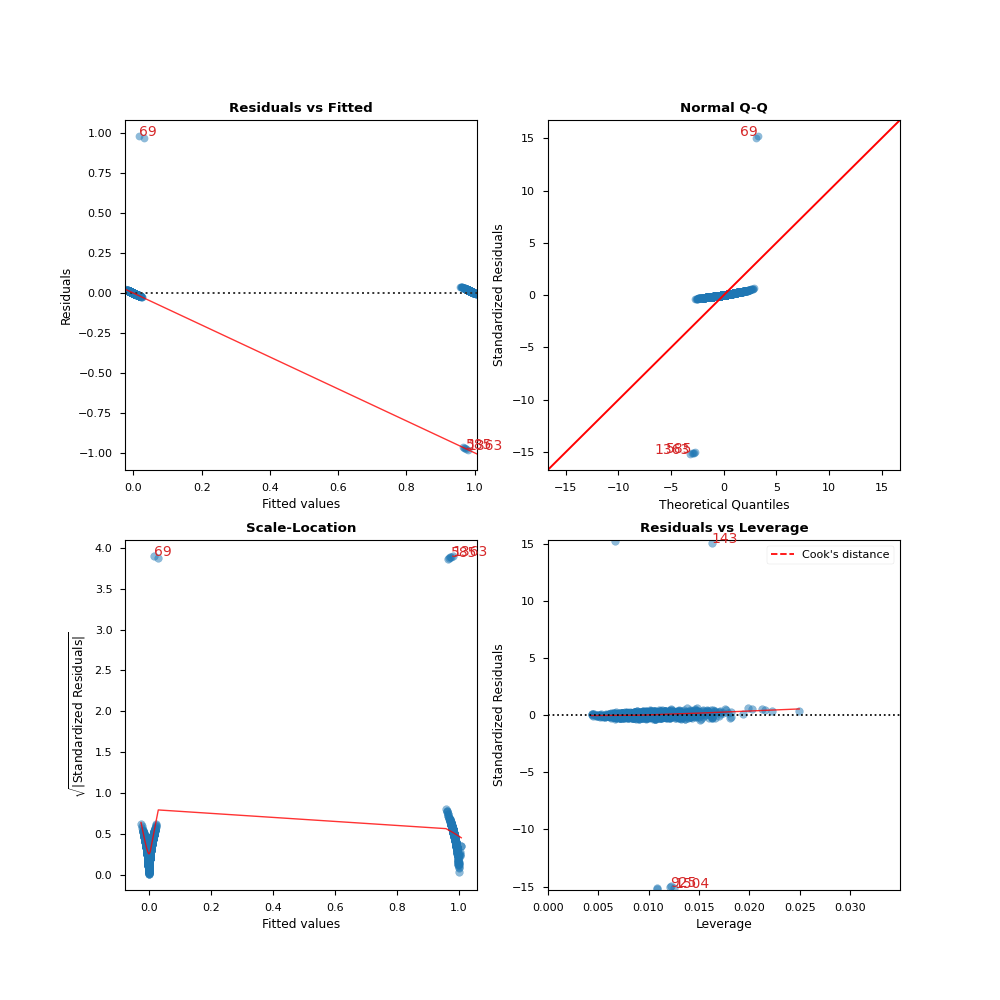
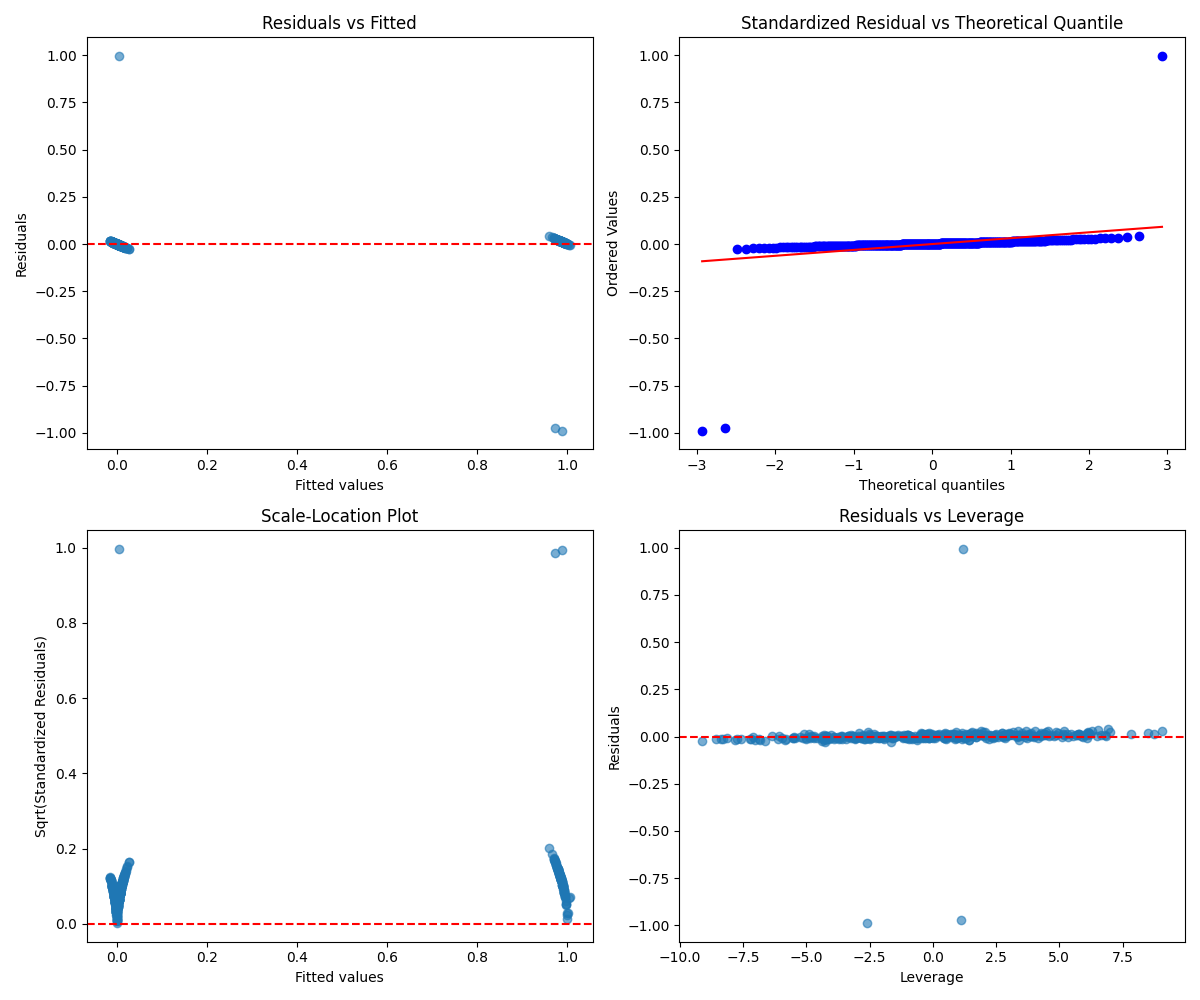
changes in diagnostic plots

diff --git a/code/olsRequests/create_olsSolution.py b/code/olsRequests/create_olsSolution.py
@@ -14,6 +14,7 @@ import statsmodels.api as sm
 import matplotlib.pyplot as plt
 from sklearn.metrics import mean_squared_error, r2_score
 from UE_04_LinearRegDiagnostic import LinearRegDiagnostic
+import scipy.stats as stats
 
 def load_and_preprocess_data(train_file, test_file, target_column):
     """
@@ -63,26 +64,7 @@ def diagnostic_plots_ols(model, path):
     """
     Generate and save diagnostic plots (Residuals and QQ Plot).
     """
-    # residuals = model.resid
-
-    # plt.figure(figsize=(12, 5))
-
-    # # Residuals Plot
-    # plt.subplot(1, 2, 1)
-    # plt.scatter(model.fittedvalues, residuals, alpha=0.5)
-    # plt.axhline(y=0, color='r', linestyle='--')
-    # plt.xlabel('Fitted Values')
-    # plt.ylabel('Residuals')
-    # plt.title('Residuals vs Fitted')
-
-    # # QQ Plot
-    # plt.subplot(1, 2, 2)
-    # sm.qqplot(residuals, line='45', fit=True)
-    # plt.title('QQ Plot of Residuals')
-
-    # plt.savefig(os.path.join(save_path, 'diagnostic_plots_ols.png'))
-    # plt.close()
-    
+   
     # Create diagnostic plots
     diagnostic = LinearRegDiagnostic(model)
     diagnostic(plot_context='seaborn-v0_8-paper')
@@ -110,7 +92,46 @@ def scatter_plot_ols(y_test, test_predictions, path):
     plt.savefig(os.path.join(path, 'scatter_plot_ols.png'))
     plt.close()
 
-
+def save_diagnostic_plots(model, X_test, y_test, save_path):
+    X = sm.add_constant(X_test)
+    predictions = model.predict(X)
+    residuals = y_test - predictions
+    
+    plt.figure(figsize=(12, 10))
+    
+    # Residuals vs Fitted
+    plt.subplot(2, 2, 1)
+    plt.scatter(predictions, residuals, alpha=0.6)
+    plt.axhline(y=0, color='r', linestyle='--')
+    plt.xlabel('Fitted values')
+    plt.ylabel('Residuals')
+    plt.title('Residuals vs Fitted')
+    
+    # Q-Q Plot
+    plt.subplot(2, 2, 2)
+    stats.probplot(residuals, dist="norm", plot=plt)
+    plt.title('Standardized Residual vs Theoretical Quantile')
+    
+    # Scale-Location Plot
+    plt.subplot(2, 2, 3)
+    plt.scatter(predictions, np.sqrt(np.abs(residuals)), alpha=0.6)
+    plt.axhline(y=0, color='r', linestyle='--')
+    plt.xlabel('Fitted values')
+    plt.ylabel('Sqrt(Standardized Residuals)')
+    plt.title('Scale-Location Plot')
+    
+    # Residuals vs Leverage
+    plt.subplot(2, 2, 4)
+    leverage = (X_test - X_test.mean()) / X_test.std()
+    plt.scatter(leverage.sum(axis=1), residuals, alpha=0.6)
+    plt.axhline(y=0, color='r', linestyle='--')
+    plt.xlabel('Leverage')
+    plt.ylabel('Residuals')
+    plt.title('Residuals vs Leverage')
+    
+    plt.tight_layout()
+    plt.savefig(os.path.join(save_path, 'diagnostic_plots_ols.png'))
+    plt.close()
 
 
 def main():
@@ -141,8 +162,9 @@ def main():
         f.write(f"Validation Data R²: {test_r2:.4f}\n")
 
     # Generate and Save Diagnostic and Scatter Plots
-    diagnostic_plots_ols(ols_model, output_dir)
+    # diagnostic_plots_ols(ols_model, output_dir)
     scatter_plot_ols(y_test, test_predictions, output_dir)
+    save_diagnostic_plots(ols_model, X_test, y_test, output_dir)
 
     ols_model.save(os.path.join(output_dir, 'ols_model.h5'))
     print(f"OLS Model and metrics saved in '{output_dir}'.")
